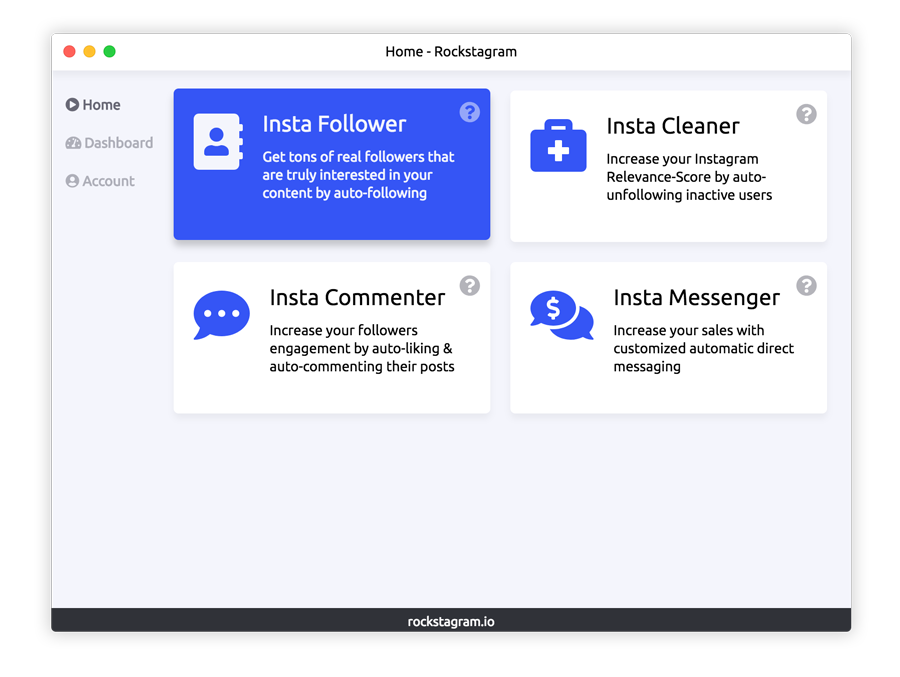
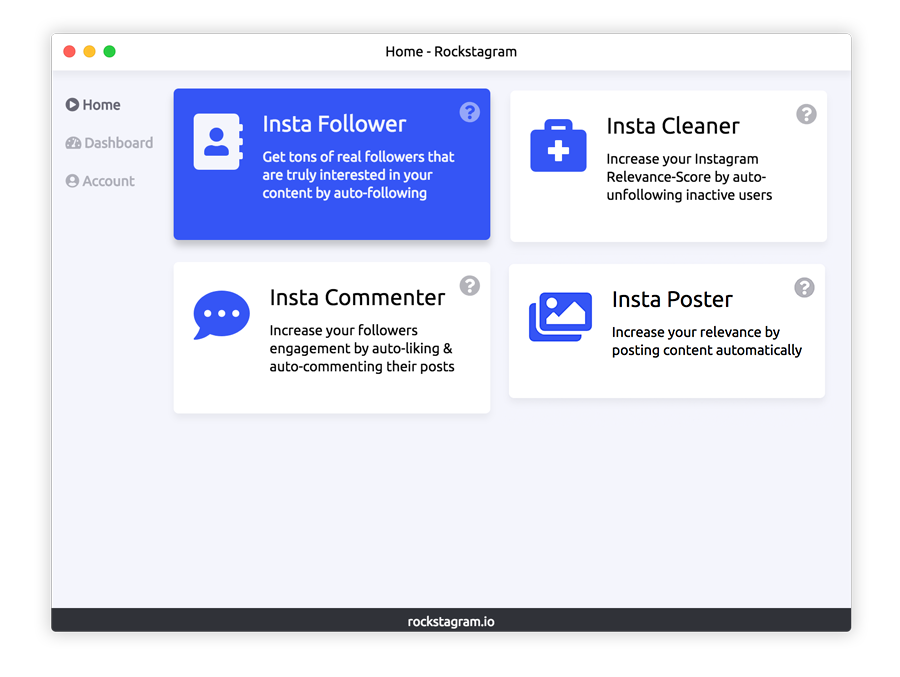
remove impossible commenter

Changed region(s): [[0.56, 0.4032, 0.9022, 0.5583], [0.8711, 0.4032, 0.9022, 0.4343]]

diff --git a/docs/index.html b/docs/index.html
@@ -214,14 +214,14 @@
               </li>
               <li class="nav-item">
                 <a
-                  aria-controls="insta-messenger"
+                  aria-controls="insta-post"
                   aria-selected="false"
                   class="nav-link"
                   data-toggle="tab"
-                  href="#insta-messenger"
-                  id="insta-messenger-tab"
+                  href="#insta-post"
+                  id="insta-post-tab"
                   role="tab"
-                  >Insta Messenger</a
+                  >Insta Poster</a
                 >
               </li>
             </ul>
@@ -361,29 +361,29 @@
                 </div>
               </div>
               <div
-                aria-labelledby="insta-messenger-tab"
+                aria-labelledby="insta-post-tab"
                 class="tab-pane fade"
-                id="insta-messenger"
+                id="insta-post"
                 role="tabpanel"
               >
                 <div class="row made_life_text">
                   <div class="col-lg-6">
                     <div class="left_side_text">
-                      <h2>Insta Messenger</h2>
+                      <h2>Insta Poster</h2>
                       <h3>
-                        Increase your sales with customized automatic direct
-                        messaging
+                        Increase your relevance by posting content automatically
                       </h3>
                       <ul>
-                        <li>Increase your sales</li>
-                        <li>Get customer feedback</li>
-                        <li>Engage with followers</li>
+                        <li>Increase relevance</li>
+                        <li>Increase followers</li>
+                        <li>Increase engagement</li>
+                        <li>Post great content</li>
                       </ul>
                       <p>
-                        How it works: Rockstagram use artificial intelligence to
-                        automatically write your followers the messages you want
-                        them to read. This is how you can reach insane
-                        sales-grow in less than 5 minutes setup.
+                        How it works: Rockstagram understands your brand and helps to post
+                        breathtaking content automatically every day.
+                        This is how you’ll skyrocket your business, followers count and engagement automatically 
+                        with 60 minute setup.
                       </p>
                       <a
                         class="btn btn--cta js-button-download"
